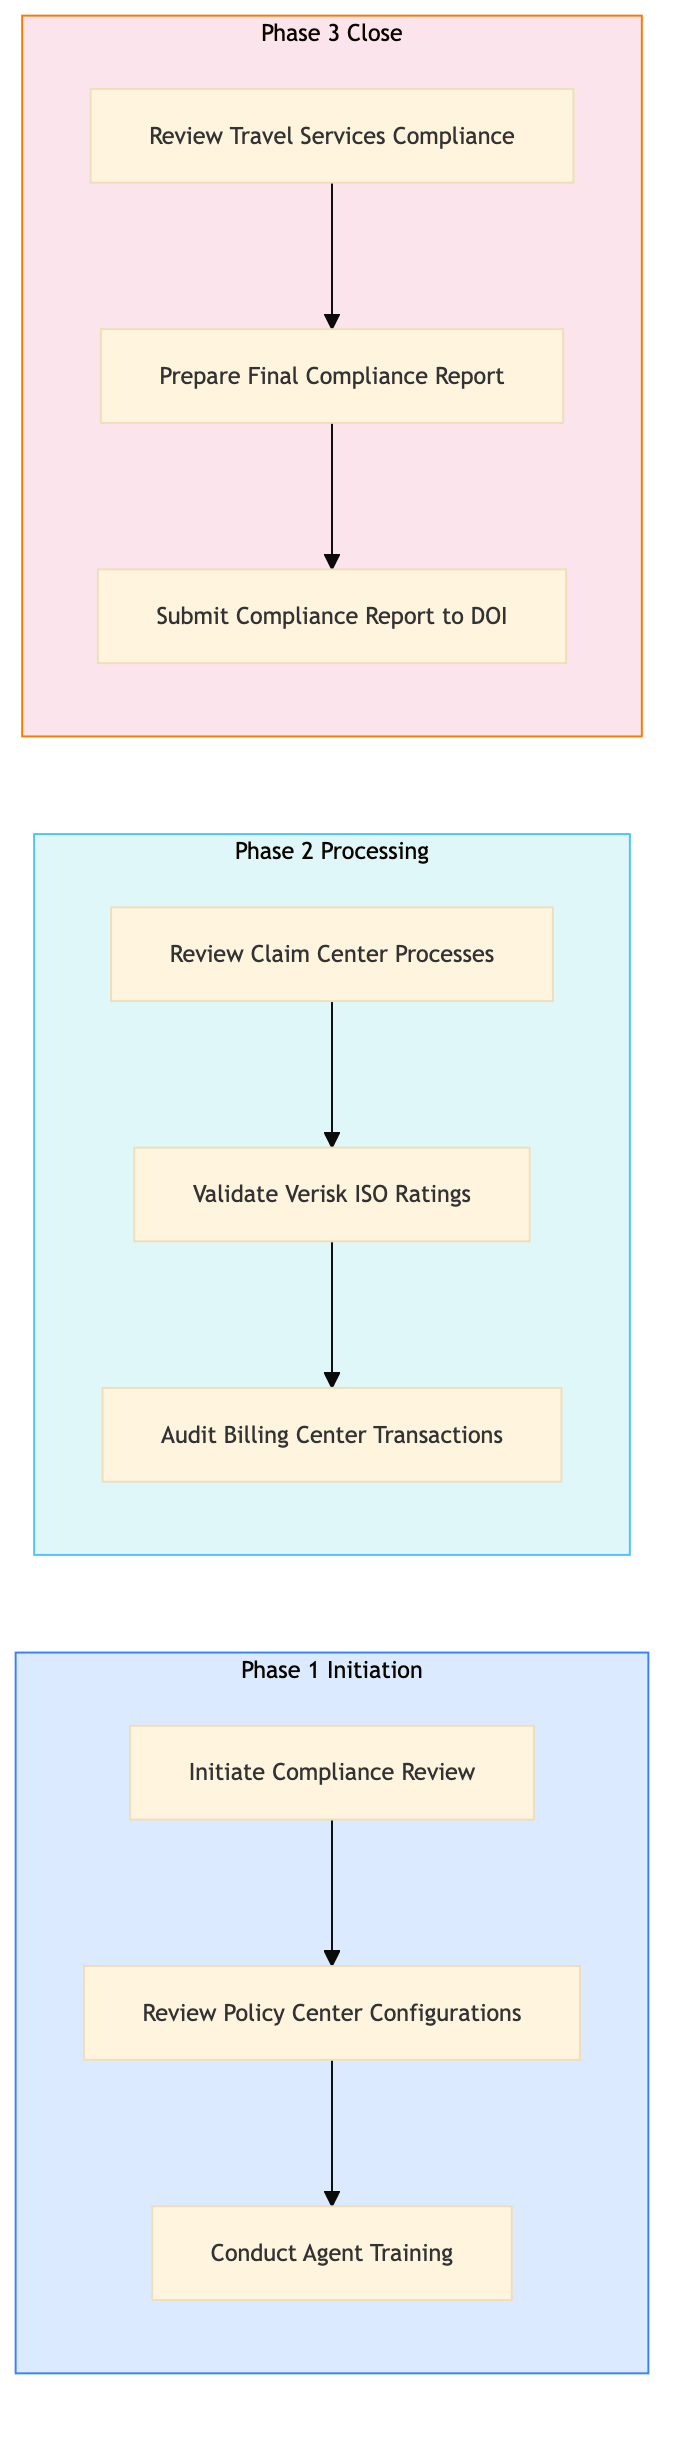
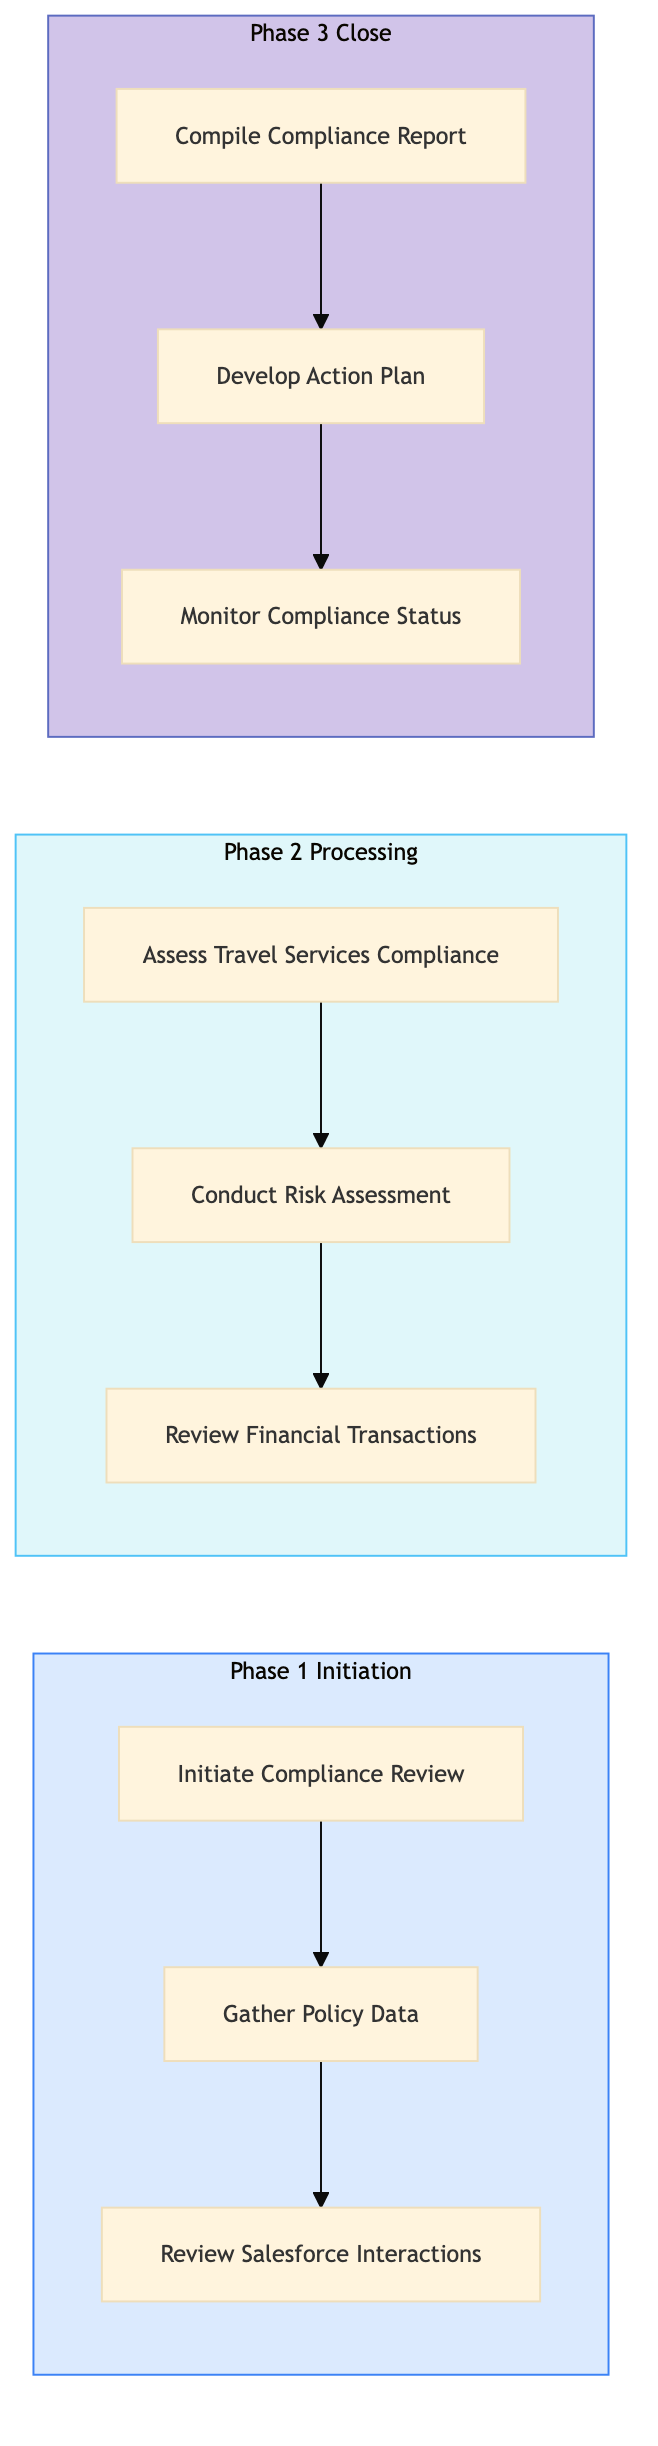
feat: add AAA-IN-AG-04 — E and O Compliance Review

diff --git a/aaa-insurance/agency-operations/aaa-in-ag-04.html b/aaa-insurance/agency-operations/aaa-in-ag-04.html
@@ -23,40 +23,16 @@
     <div class="nav-l2-group">
       <a class="nav-l2-title" href="../../shared-membership/membership-enrolment/index.html">Membership Enrolment & Sales</a>
       <div class="nav-l3-list">
-        <a class="nav-l3" href="../../shared-membership/membership-enrolment/shared-mb-en-01.html">SHARED-MB-EN-01 &mdash; New Member Walk-In Enrolment (Branch)</a>
-        <a class="nav-l3" href="../../shared-membership/membership-enrolment/shared-mb-en-02.html">SHARED-MB-EN-02 &mdash; Online Membership Self-Enrolment (Web/Ap</a>
-        <a class="nav-l3" href="../../shared-membership/membership-enrolment/shared-mb-en-03.html">SHARED-MB-EN-03 &mdash; Phone Enrolment via Contact Centre</a>
-        <a class="nav-l3" href="../../shared-membership/membership-enrolment/shared-mb-en-04.html">SHARED-MB-EN-04 &mdash; Affiliate and Employer Group Enrolment</a>
-        <a class="nav-l3" href="../../shared-membership/membership-enrolment/shared-mb-en-05.html">SHARED-MB-EN-05 &mdash; Membership Tier Selection and Upsell</a>
-        <a class="nav-l3" href="../../shared-membership/membership-enrolment/shared-mb-en-06.html">SHARED-MB-EN-06 &mdash; Payment Processing and First-Year Billin</a>
-        <a class="nav-l3" href="../../shared-membership/membership-enrolment/shared-mb-en-07.html">SHARED-MB-EN-07 &mdash; Welcome Kit and Digital Card Issuance</a>
-        <a class="nav-l3" href="../../shared-membership/membership-enrolment/shared-mb-en-08.html">SHARED-MB-EN-08 &mdash; Duplicate Member Detection and Merge</a>
       </div>
     </div>
     <div class="nav-l2-group">
       <a class="nav-l2-title" href="../../shared-membership/membership-renewal/index.html">Membership Renewal & Retention</a>
       <div class="nav-l3-list">
-        <a class="nav-l3" href="../../shared-membership/membership-renewal/shared-mb-rn-01.html">SHARED-MB-RN-01 &mdash; Annual Renewal Notice Generation and Dis</a>
-        <a class="nav-l3" href="../../shared-membership/membership-renewal/shared-mb-rn-02.html">SHARED-MB-RN-02 &mdash; Auto-Renewal Processing (Credit Card on </a>
-        <a class="nav-l3" href="../../shared-membership/membership-renewal/shared-mb-rn-03.html">SHARED-MB-RN-03 &mdash; Lapsed Member Reinstatement Campaign</a>
-        <a class="nav-l3" href="../../shared-membership/membership-renewal/shared-mb-rn-04.html">SHARED-MB-RN-04 &mdash; Membership Upgrade and Tier Change Proce</a>
-        <a class="nav-l3" href="../../shared-membership/membership-renewal/shared-mb-rn-05.html">SHARED-MB-RN-05 &mdash; Associate and Household Member Add-On Pr</a>
-        <a class="nav-l3" href="../../shared-membership/membership-renewal/shared-mb-rn-06.html">SHARED-MB-RN-06 &mdash; Cancellation Request Handling and Save O</a>
-        <a class="nav-l3" href="../../shared-membership/membership-renewal/shared-mb-rn-07.html">SHARED-MB-RN-07 &mdash; Renewal Rate Review and Pricing Update</a>
-        <a class="nav-l3" href="../../shared-membership/membership-renewal/shared-mb-rn-08.html">SHARED-MB-RN-08 &mdash; Membership Winback Campaign (12-36 Month</a>
       </div>
     </div>
     <div class="nav-l2-group">
       <a class="nav-l2-title" href="../../shared-membership/member-services/index.html">Member Services & Benefits</a>
       <div class="nav-l3-list">
-        <a class="nav-l3" href="../../shared-membership/member-services/shared-mb-sv-01.html">SHARED-MB-SV-01 &mdash; Member Discount Partner Redemption</a>
-        <a class="nav-l3" href="../../shared-membership/member-services/shared-mb-sv-02.html">SHARED-MB-SV-02 &mdash; Passport Photo Service Delivery (Branch)</a>
-        <a class="nav-l3" href="../../shared-membership/member-services/shared-mb-sv-03.html">SHARED-MB-SV-03 &mdash; International Driving Permit (IDP) Proce</a>
-        <a class="nav-l3" href="../../shared-membership/member-services/shared-mb-sv-04.html">SHARED-MB-SV-04 &mdash; Notary and Document Authentication Servi</a>
-        <a class="nav-l3" href="../../shared-membership/member-services/shared-mb-sv-05.html">SHARED-MB-SV-05 &mdash; Member Portal Profile and Preferences Ma</a>
-        <a class="nav-l3" href="../../shared-membership/member-services/shared-mb-sv-06.html">SHARED-MB-SV-06 &mdash; Lost and Stolen Membership Card Replacem</a>
-        <a class="nav-l3" href="../../shared-membership/member-services/shared-mb-sv-07.html">SHARED-MB-SV-07 &mdash; Member Data Privacy Request (CCPA and PI</a>
-        <a class="nav-l3" href="../../shared-membership/member-services/shared-mb-sv-08.html">SHARED-MB-SV-08 &mdash; Member Satisfaction Survey and NPS Track</a>
       </div>
     </div>
   </div>
@@ -307,7 +283,7 @@
           <span class="pid-badge org-badge-aaa">AAA</span>
           AAA-IN-AG-04 &mdash; E and O Compliance Review
         </h1>
-        <p>The E and O Compliance Review process ensures that AAA Northeast insurance agency operations comply with state Department of Insurance (DOI) regulations, using Guidewire Cloud for policy management, Salesforce for customer interactions, Sabre GDS for travel services, Verisk ISO rating for risk assessment, and USD for financial transactions.</p>
+        <p>The E and O Compliance Review process ensures that AAA Northeast insurance agency operations comply with state Department of Insurance (DOI) regulations, using Guidewire Cloud for policy management, Salesforce for customer interactions, Sabre for travel services, Verisk for risk assessment, and USD for financial transactions.</p>
       </div>
 
       <!-- BPMN Diagram -->
@@ -333,10 +309,10 @@
             <tr><th>L1 Domain</th><td>AAA Insurance</td></tr>
             <tr><th>L2 Process</th><td>Insurance Agency Operations</td></tr>
             <tr><th>L3 Name</th><td>E and O Compliance Review</td></tr>
-            <tr><th>Trigger</th><td>Annual review cycle or changes in DOI regulations</td></tr>
-            <tr><th>Outcome</th><td>Compliance with state DOI requirements, ensuring no fines or penalties from regulatory bodies.</td></tr>
-            <tr><th>Org Notes</th><td>AAA Northeast focuses on comprehensive compliance checks, whereas CAA SCO might have more localized compliance processes due to different jurisdictional requirements.</td></tr>
-            <tr><th>Systems</th><td><span class="sys-tag guidewire">Guidewire Cloud</span> <span class="sys-tag salesforce">Salesforce</span> <span class="sys-tag sabre">Sabre GDS</span> <span class="sys-tag verisk">Verisk ISO rating</span></td></tr>
+            <tr><th>Trigger</th><td>Annual review cycle or upon significant changes in insurance laws or internal policies.</td></tr>
+            <tr><th>Outcome</th><td>A comprehensive report detailing compliance status, recommendations for improvements, and a plan to address any identified issues.</td></tr>
+            <tr><th>Org Notes</th><td>AAA Northeast focuses on direct agency operations with a strong emphasis on digital transformation using cloud-based systems. The process is more integrated with Salesforce for customer engagement compared to CAA's focus on telematics and account management portals.</td></tr>
+            <tr><th>Systems</th><td><span class="sys-tag guidewire">Guidewire Cloud</span> <span class="sys-tag salesforce">Salesforce</span> <span class="sys-tag sabre">Sabre</span> <span class="sys-tag verisk">Verisk</span> <span class="sys-tag sys-generic">USD</span></td></tr>
           </table>
         </div>
       </div>
@@ -360,107 +336,107 @@
           <td>Initiate Compliance Review</td>
           <td>Compliance Officer</td>
           <td><span class="sys-tag guidewire">Guidewire Cloud</span></td>
-          <td>State DOI regulations and internal policies</td>
-          <td>Compliance checklist</td>
-          <td>Regulation coverage rate - 100%</td>
-          <td>Keeping up with frequent changes in state regulations</td>
+          <td>Annual compliance checklist, state DOI guidelines</td>
+          <td>Compliance review plan</td>
+          <td>Review plan completion within 2 weeks</td>
+          <td>Inconsistent interpretation of state regulations</td>
           <td>N</td>
           <td><span class="exception-y">Y</span></td>
         </tr>
         <tr>
           <td class="step-num">1.2</td>
-          <td>Review Policy Center Configurations</td>
-          <td>IT Specialist</td>
+          <td>Gather Policy Data</td>
+          <td>Policy Analyst</td>
           <td><span class="sys-tag guidewire">Guidewire Cloud</span></td>
-          <td>Compliance checklist</td>
-          <td>PolicyCenter configuration report</td>
-          <td>Configuration accuracy rate - 95%</td>
-          <td>Complexity in maintaining multiple configurations</td>
+          <td>Active policy records</td>
+          <td>Policy data report</td>
+          <td>Data extraction accuracy > 98%</td>
+          <td>Data integrity issues in Guidewire</td>
           <td>N</td>
           <td><span class="exception-y">Y</span></td>
         </tr>
         <tr>
           <td class="step-num">1.3</td>
-          <td>Conduct Agent Training</td>
-          <td>Licensed Insurance Agent</td>
+          <td>Review Salesforce Interactions</td>
+          <td>Customer Service Manager</td>
           <td><span class="sys-tag salesforce">Salesforce</span></td>
-          <td>Compliance checklist and training materials</td>
-          <td>Agent training completion certificates</td>
-          <td>Training completion rate - 90%</td>
-          <td>Ensuring all agents attend mandatory training sessions</td>
+          <td>Customer interaction logs</td>
+          <td>Interaction analysis report</td>
+          <td>Analysis completion within 1 week</td>
+          <td>Data quality in Salesforce</td>
           <td>N</td>
           <td><span class="exception-y">Y</span></td>
         </tr>
         <tr>
           <td class="step-num">2.1</td>
-          <td>Review Claim Center Processes</td>
-          <td>Claims Adjuster</td>
-          <td><span class="sys-tag guidewire">Guidewire Cloud</span></td>
-          <td>Compliance checklist and claim data</td>
-          <td>Claim process review report</td>
-          <td>Process adherence rate - 98%</td>
-          <td>Handling large volumes of claims efficiently</td>
-          <td>N</td>
+          <td>Assess Travel Services Compliance</td>
+          <td>Travel Coordinator</td>
+          <td><span class="sys-tag sabre">Sabre</span></td>
+          <td>Travel booking records</td>
+          <td>Compliance assessment report</td>
+          <td>Compliance rate > 95%</td>
+          <td>Integration issues between Sabre and Guidewire</td>
+          <td><span class="decision-y">Y</span></td>
           <td><span class="exception-y">Y</span></td>
         </tr>
         <tr>
           <td class="step-num">2.2</td>
-          <td>Validate Verisk ISO Ratings</td>
+          <td>Conduct Risk Assessment</td>
           <td>Risk Analyst</td>
-          <td><span class="sys-tag verisk">Verisk ISO rating</span></td>
-          <td>Compliance checklist and policy data</td>
-          <td>ISO rating validation report</td>
-          <td>Rating accuracy rate - 97%</td>
-          <td>Accurate risk assessment for diverse policies</td>
+          <td><span class="sys-tag verisk">Verisk</span></td>
+          <td>Policy data, risk factors</td>
+          <td>Risk assessment report</td>
+          <td>Assessment turnaround time < 3 days</td>
+          <td>Data latency in Verisk</td>
           <td>N</td>
           <td><span class="exception-y">Y</span></td>
         </tr>
         <tr>
           <td class="step-num">2.3</td>
-          <td>Audit Billing Center Transactions</td>
-          <td>Billing Specialist</td>
-          <td><span class="sys-tag guidewire">Guidewire Cloud</span></td>
-          <td>Compliance checklist and billing data</td>
-          <td>Billing audit report</td>
-          <td>Transaction accuracy rate - 96%</td>
-          <td>Managing large volumes of financial transactions</td>
-          <td>N</td>
+          <td>Review Financial Transactions</td>
+          <td>Financial Analyst</td>
+          <td><span class="sys-tag sys-generic">USD</span></td>
+          <td>Transaction logs</td>
+          <td>Financial compliance report</td>
+          <td>Audit accuracy > 99%</td>
+          <td>Complex transaction processing</td>
+          <td><span class="decision-y">Y</span></td>
           <td><span class="exception-y">Y</span></td>
         </tr>
         <tr>
           <td class="step-num">3.1</td>
-          <td>Review Travel Services Compliance</td>
-          <td>Travel Coordinator</td>
-          <td><span class="sys-tag sabre">Sabre GDS</span></td>
-          <td>Compliance checklist and travel data</td>
-          <td>Travel services compliance report</td>
-          <td>Service adherence rate - 95%</td>
-          <td>Ensuring all travel services comply with regulations</td>
+          <td>Compile Compliance Report</td>
+          <td>Compliance Officer</td>
+          <td><span class="sys-tag guidewire">Guidewire Cloud, Salesforce</span></td>
+          <td>All review reports</td>
+          <td>Final compliance report</td>
+          <td>Report submission within 2 weeks of initiation</td>
+          <td>Data synthesis and reporting delays</td>
           <td>N</td>
           <td><span class="exception-y">Y</span></td>
         </tr>
         <tr>
           <td class="step-num">3.2</td>
-          <td>Prepare Final Compliance Report</td>
-          <td>Compliance Officer</td>
-          <td><span class="sys-tag salesforce">Salesforce</span></td>
-          <td>All review reports and data</td>
+          <td>Develop Action Plan</td>
+          <td>Compliance Officer, Agency Manager</td>
+          <td><span class="sys-tag guidewire">Guidewire Cloud, Salesforce</span></td>
           <td>Final compliance report</td>
-          <td>Report completeness rate - 100%</td>
-          <td>Compiling detailed reports from multiple sources</td>
+          <td>Action plan with timelines and responsibilities</td>
+          <td>Plan implementation within 1 month of report submission</td>
+          <td>Resource allocation for action items</td>
           <td>N</td>
           <td><span class="exception-y">Y</span></td>
         </tr>
         <tr>
           <td class="step-num">3.3</td>
-          <td>Submit Compliance Report to DOI</td>
-          <td>Compliance Officer</td>
-          <td><span class="sys-tag salesforce">Salesforce</span></td>
-          <td>Final compliance report</td>
-          <td>Submission confirmation</td>
-          <td>Submission accuracy rate - 100%</td>
-          <td>Timely submission to avoid penalties</td>
-          <td>N</td>
+          <td>Monitor Compliance Status</td>
+          <td>Compliance Officer, Agency Manager</td>
+          <td><span class="sys-tag guidewire">Guidewire Cloud, Salesforce</span></td>
+          <td>Action plan and compliance report</td>
+          <td>Ongoing monitoring report</td>
+          <td>Continuous improvement in compliance rate > 5% annually</td>
+          <td>Sustaining compliance over time</td>
+          <td><span class="decision-y">Y</span></td>
           <td><span class="exception-y">Y</span></td>
         </tr>
               </tbody>
@@ -474,9 +450,9 @@
         <div class="card-header">&#x1F4CA; KPIs &amp; Risk Register</div>
         <div class="card-body">
           <p class="mb-8"><strong>KPIs</strong></p>
-          <div class="kpi-list mb-8"><span class="kpi-pill">Regulation coverage rate - 100%</span> <span class="kpi-pill">Configuration accuracy rate - 95%</span> <span class="kpi-pill">Training completion rate - 90%</span> <span class="kpi-pill">Process adherence rate - 98%</span> <span class="kpi-pill">Rating accuracy rate - 97%</span> <span class="kpi-pill">Transaction accuracy rate - 96%</span> <span class="kpi-pill">Service adherence rate - 95%</span> <span class="kpi-pill">Report completeness rate - 100%</span> <span class="kpi-pill">Submission accuracy rate - 100%</span></div>
+          <div class="kpi-list mb-8"><span class="kpi-pill">Review plan completion within 2 weeks</span> <span class="kpi-pill">Data extraction accuracy > 98%</span> <span class="kpi-pill">Analysis completion within 1 week</span> <span class="kpi-pill">Compliance rate > 95%</span> <span class="kpi-pill">Assessment turnaround time < 3 days</span> <span class="kpi-pill">Audit accuracy > 99%</span> <span class="kpi-pill">Report submission within 2 weeks of initiation</span> <span class="kpi-pill">Plan implementation within 1 month of report submission</span> <span class="kpi-pill">Continuous improvement in compliance rate > 5% annually</span></div>
           <p class="mb-8" style="margin-top:16px"><strong>Key Risks</strong></p>
-          <div class="kpi-list"><span class="risk-pill">Non-compliance with state regulations</span> <span class="risk-pill">Inaccurate policy or claim data entry</span> <span class="risk-pill">Low agent training attendance</span> <span class="risk-pill">Delays in travel service compliance checks</span> <span class="risk-pill">Errors in financial transactions</span></div>
+          <div class="kpi-list"><span class="risk-pill">Inconsistent interpretation of state regulations</span> <span class="risk-pill">Data integrity issues in Guidewire</span> <span class="risk-pill">Data quality in Salesforce</span> <span class="risk-pill">Integration issues between Sabre and Guidewire</span> <span class="risk-pill">Data latency in Verisk</span> <span class="risk-pill">Complex transaction processing</span> <span class="risk-pill">Data synthesis and reporting delays</span> <span class="risk-pill">Resource allocation for action items</span> <span class="risk-pill">Sustaining compliance over time</span></div>
         </div>
       </div>
 

diff --git a/aaa-insurance/agency-operations/index.html b/aaa-insurance/agency-operations/index.html
@@ -84,6 +84,7 @@
       <div class="nav-l3-list">
         <a class="nav-l3" href="../../aaa-insurance/agency-operations/aaa-in-ag-01.html">AAA-IN-AG-01 &mdash; Licensed Agent Appointment and Onboardin</a>
         <a class="nav-l3" href="../../aaa-insurance/agency-operations/aaa-in-ag-02.html">AAA-IN-AG-02 &mdash; Agent Continuing Education and License R</a>
+        <a class="nav-l3" href="../../aaa-insurance/agency-operations/aaa-in-ag-03.html">AAA-IN-AG-03 &mdash; Agency Performance Reporting and Scoreca</a>
       </div>
     </div>
   </div>
@@ -275,7 +276,7 @@
           <a href="../index.html">AAA Insurance</a>
         </div>
         <h1>🛡 Insurance Agency Operations</h1>
-        <p>2 of 8 processes complete</p>
+        <p>3 of 8 processes complete</p>
       </div>
       <div class="card">
         <div class="card-header">Process List</div>
@@ -284,7 +285,7 @@
             <thead><tr><th>PID</th><th>L3 Process Name</th><th>Status</th></tr></thead>
             <tbody><tr><td><a href="aaa-in-ag-01.html">AAA-IN-AG-01</a></td><td>Licensed Agent Appointment and Onboarding</td><td><span style="color:#16a34a;font-weight:700">&#x2705; Complete</span></td></tr>
 <tr><td><a href="aaa-in-ag-02.html">AAA-IN-AG-02</a></td><td>Agent Continuing Education and License Renewal Tracking</td><td><span style="color:#16a34a;font-weight:700">&#x2705; Complete</span></td></tr>
-<tr><td>AAA-IN-AG-03</td><td>Agency Performance Reporting and Scorecard</td><td><span style="color:#94a3b8">&#x23F3; Queued</span></td></tr>
+<tr><td><a href="aaa-in-ag-03.html">AAA-IN-AG-03</a></td><td>Agency Performance Reporting and Scorecard</td><td><span style="color:#16a34a;font-weight:700">&#x2705; Complete</span></td></tr>
 <tr><td>AAA-IN-AG-04</td><td>E and O Compliance Review</td><td><span style="color:#94a3b8">&#x23F3; Queued</span></td></tr>
 <tr><td>AAA-IN-AG-05</td><td>Cross-Sell Insurance to Existing AAA Members</td><td><span style="color:#94a3b8">&#x23F3; Queued</span></td></tr>
 <tr><td>AAA-IN-AG-06</td><td>Insurance Lead Management and Pipeline (Salesforce)</td><td><span style="color:#94a3b8">&#x23F3; Queued</span></td></tr>

diff --git a/index.html b/index.html
@@ -84,6 +84,7 @@
       <div class="nav-l3-list">
         <a class="nav-l3" href="aaa-insurance/agency-operations/aaa-in-ag-01.html">AAA-IN-AG-01 &mdash; Licensed Agent Appointment and Onboardin</a>
         <a class="nav-l3" href="aaa-insurance/agency-operations/aaa-in-ag-02.html">AAA-IN-AG-02 &mdash; Agent Continuing Education and License R</a>
+        <a class="nav-l3" href="aaa-insurance/agency-operations/aaa-in-ag-03.html">AAA-IN-AG-03 &mdash; Agency Performance Reporting and Scoreca</a>
       </div>
     </div>
   </div>
@@ -275,9 +276,9 @@
       </div>
 
       <div class="stats-bar">
-        <div class="stat-card"><div class="stat-num">28</div><div class="stat-label">Processes Complete</div></div>
+        <div class="stat-card"><div class="stat-num">29</div><div class="stat-label">Processes Complete</div></div>
         <div class="stat-card"><div class="stat-num">268</div><div class="stat-label">Total Processes</div></div>
-        <div class="stat-card"><div class="stat-num">28</div><div class="stat-label">AAA Complete</div></div>
+        <div class="stat-card"><div class="stat-num">29</div><div class="stat-label">AAA Complete</div></div>
         <div class="stat-card"><div class="stat-num caa-red">0</div><div class="stat-label">CAA Complete</div></div>
         <div class="stat-card"><div class="stat-num">0</div><div class="stat-label">Shared Complete</div></div>
       </div>
@@ -297,7 +298,7 @@
         <span class="nav-org-dot aaa" style="display:inline-block;margin-right:4px"></span>
         AAA
       </p>
-      <p class="card-count">28 / 34 processes complete</p>
+      <p class="card-count">29 / 34 processes complete</p>
     </div>
     <div class="domain-card org-caa">
       <h3><a href="caa-insurance/index.html">🍁 CAA Insurance (Ontario)</a></h3>

diff --git a/aaa-insurance/index.html b/aaa-insurance/index.html
@@ -84,6 +84,7 @@
       <div class="nav-l3-list">
         <a class="nav-l3" href="../aaa-insurance/agency-operations/aaa-in-ag-01.html">AAA-IN-AG-01 &mdash; Licensed Agent Appointment and Onboardin</a>
         <a class="nav-l3" href="../aaa-insurance/agency-operations/aaa-in-ag-02.html">AAA-IN-AG-02 &mdash; Agent Continuing Education and License R</a>
+        <a class="nav-l3" href="../aaa-insurance/agency-operations/aaa-in-ag-03.html">AAA-IN-AG-03 &mdash; Agency Performance Reporting and Scoreca</a>
       </div>
     </div>
   </div>
@@ -272,7 +273,7 @@
       <div class="page-header">
         <div class="breadcrumb"><a href="../index.html">Home</a></div>
         <h1>🛡 AAA Insurance</h1>
-        <p>28 of 34 processes complete across 4 process groups</p>
+        <p>29 of 34 processes complete across 4 process groups</p>
       </div>
       <div class="domain-grid">    <div class="domain-card org-aaa">
       <h3><a href="insurance-quoting/index.html">Quoting & Underwriting</a></h3>
@@ -288,7 +289,7 @@
     </div>
     <div class="domain-card org-aaa">
       <h3><a href="agency-operations/index.html">Insurance Agency Operations</a></h3>
-      <p class="card-meta">2/8 processes complete</p>
+      <p class="card-meta">3/8 processes complete</p>
     </div>
 </div>
     </main>
